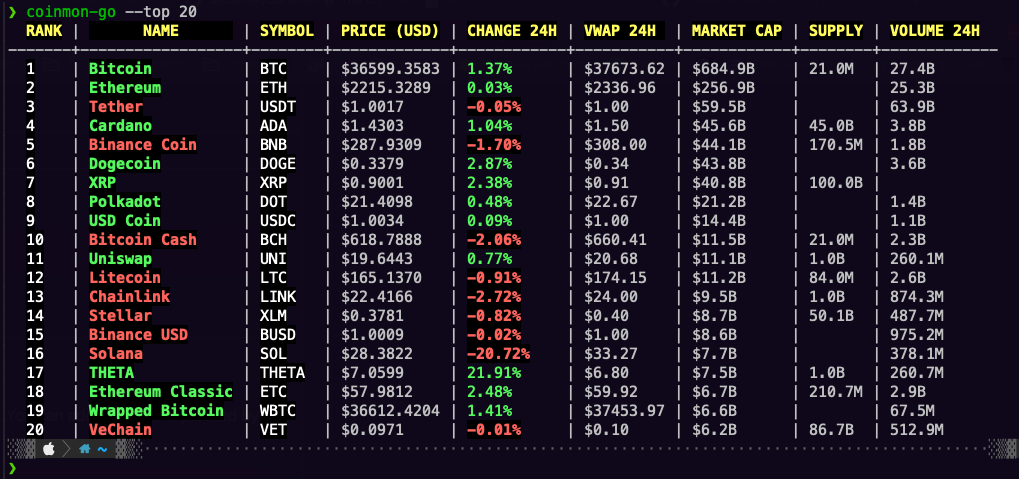
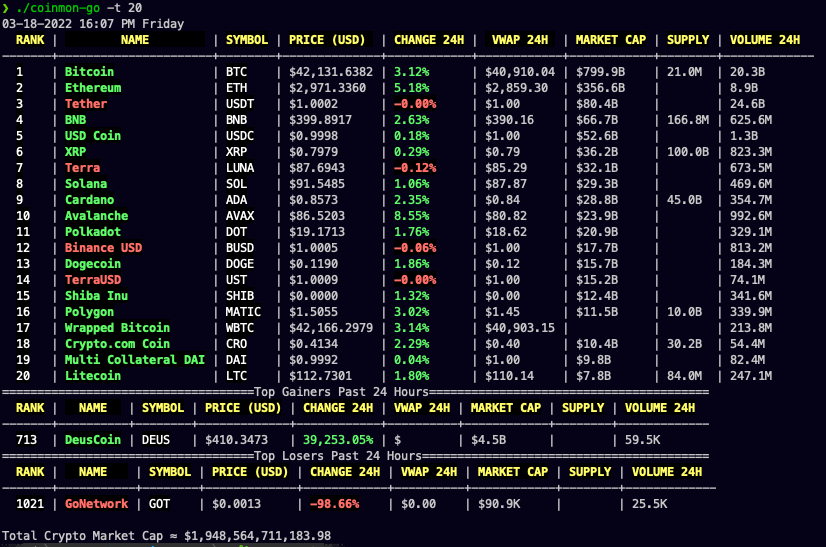
added top movers data plus test

diff --git a/main.go b/main.go
@@ -176,6 +176,42 @@ func printTotalMarketCap(coinData *CoinData) error {
 	return nil
 }
 
+// printTopMovers prints the largest gaining and losing coin from past 24 hours
+func printTopMovers(data *CoinData) error {
+	var highest float64 = 0
+	var lowest float64 = 0
+	topGainers := &CoinData{}
+	topLosers := &CoinData{}
+
+	for _, row := range data.Data {
+		if row.ChangePercent24Hr != "" {
+			num, err := strconv.ParseFloat(row.ChangePercent24Hr, 64)
+			if err != nil {
+				return err
+			}
+			if num > highest {
+				highest = num
+				topGainers.Data = []Data{row}
+			}
+			if num < lowest {
+				lowest = num
+				topLosers.Data = []Data{row}
+			}
+		}
+	}
+
+	fmt.Println("====================================Top Gainers Past 24 Hours========================================")
+	if err := printTable(topGainers); err != nil {
+		return err
+	}
+	fmt.Println("====================================Top Losers Past 24 Hours=========================================")
+	if err := printTable(topLosers); err != nil {
+		return err
+	}
+
+	return nil
+}
+
 func main() {
 	os.Exit(cli.Run(new(argT), func(ctx *cli.Context) error {
 		now := time.Now()
@@ -203,6 +239,9 @@ func main() {
 
 		totalMarketCapCoinData := new(CoinData)
 		if err := getJSON(top2000, totalMarketCapCoinData); err != nil {
+			log.Panic(err)
+		}
+		if err := printTopMovers(totalMarketCapCoinData); err != nil {
 			log.Panic(err)
 		}
 		if err := printTotalMarketCap(totalMarketCapCoinData); err != nil {

diff --git a/main_test.go b/main_test.go
@@ -154,3 +154,29 @@ func Test_printTotalMarketCap(t *testing.T) {
 		})
 	}
 }
+
+func Test_printTopMovers(t *testing.T) {
+	type args struct {
+		coinData *CoinData
+	}
+
+	rawReader := strings.NewReader(rawData)
+	coinData := new(CoinData)
+	if err := json.NewDecoder(rawReader).Decode(coinData); err != nil {
+		t.Errorf("couldnt decode data: %v", err)
+	}
+	tests := []struct {
+		name    string
+		args    args
+		wantErr bool
+	}{
+		{name: "Test_printTopMovers 1", args: args{coinData: coinData}, wantErr: false},
+	}
+	for _, tt := range tests {
+		t.Run(tt.name, func(t *testing.T) {
+			if err := printTopMovers(tt.args.coinData); (err != nil) != tt.wantErr {
+				t.Errorf("printTotalMarketCap() error = %v, wantErr %v", err, tt.wantErr)
+			}
+		})
+	}
+}
